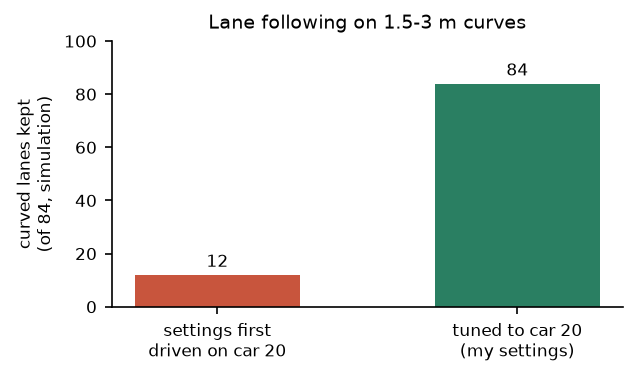
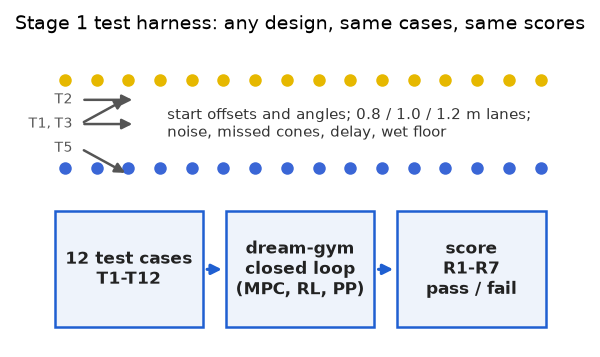
Toby's slide: card 1 is MPC lane following and the Stage 1 test harness

diff --git a/docs/logbook/toby/make_slide.py b/docs/logbook/toby/make_slide.py
@@ -16,8 +16,8 @@ DARK, BLUE, GREY = RGBColor(0x22, 0x22, 0x22), RGBColor(0x1F, 0x5F, 0xD1), RGBCo
 GREEN, AMBER = RGBColor(0x2A, 0x7F, 0x62), RGBColor(0xB2, 0x6B, 0x00)
 
 CARDS = [
-    ("1  MPC tuned to car 20", "slide_mpc.png", "84 / 84",
-     "simulated curves kept with car 20's real steering limits", ("Car runs: stays between the cones", GREEN)),
+    ("1  MPC lane following", "slide_mpc.png", "12 cases",
+     "test harness we used to choose the MPC over RL and tune it", ("Car runs: MPC stays between the cones", GREEN)),
     ("2  Lane shifting", "slide_lane_change.png", "L · C · R",
      "keep left, centre or right, moving across smoothly", ("Car 20, 20 Oct: kept to the left", GREEN)),
     ("3  Markers -> actions", "slide_aruco.png", "ID -> action",
@@ -28,10 +28,12 @@ CARDS = [
 """(title, figure, key number, one line under it, (status badge, colour)). The rest is said, not written: see
 SCRIPT."""
 SCRIPT = """About 100 seconds. Point at each card as you reach it.
-[1] I'm Toby, in the MPC sub-team. Peiyu built our MPC. I wrote the Stage 1 test cases we tuned it on, and measured the
-real car's delay and cone noise from recorded drives so the simulation behaved like the car. Then I tuned the MPC to
-car 20 with Chris's measured steering limits: 0.48 per metre to the left and 0.92 to the right. With those limits it
-kept every one of the 84 simulated curves, and the steering became about three times smoother.
+[1] I'm Toby, in the MPC sub-team. Peiyu designed our MPC; my part was making it testable. I wrote the Stage 1
+test cases and the harness that runs them: twelve cases with the car starting off-centre or at an angle, lanes 0.8 to
+1.2 metres wide, missed cones, detector noise, extra delay and a wet floor. The harness drives any design, MPC, RL or
+pure pursuit, closed loop in dream-gym and scores it against requirements R1 to R7. That is what we used to choose the
+MPC over RL and then tune it. Later I added the real car's delay, cone noise and steering limits, measured from
+recorded drives, so settings tuned in simulation carried over to the car.
 [2] Next, lane shifting. Instead of the lane centre, the MPC can follow a line beside it, so the car keeps left, centre
 or right, and it moves across gradually, at most 0.3 metres sideways per metre driven. On car 20 on 20 October,
 changing only that setting to left kept the car on the left. In the lab's narrow lanes the shift was hard to see, so I
@@ -63,7 +65,7 @@ def main():
     deck.slide_width, deck.slide_height = Inches(13.333), Inches(7.5)
     slide = deck.slides.add_slide(deck.slide_layouts[6])
     text_box(slide, 0.4, 0.2, 12.5, 0.7, [[("Toby Lee  ", 26, True, DARK),
-                                           ("MPC sub-team: car 20 tuning, lane shifting, marker actions and turns",
+                                           ("MPC sub-team: lane-following tests, lane shifting, marker actions and turns",
                                             18, False, BLUE)]])
     width, height, gap = 6.2, 2.9, 0.13
     for i, (title, figure, number, line, (status, colour)) in enumerate(CARDS):

diff --git a/docs/logbook/toby/make_figures.py b/docs/logbook/toby/make_figures.py
@@ -18,6 +18,7 @@ from pathlib import Path
 import matplotlib
 matplotlib.use("Agg")
 import matplotlib.pyplot as plt  # noqa: E402
+import numpy as np  # noqa: E402
 from matplotlib.patches import Arc, Circle, FancyBboxPatch, Rectangle  # noqa: E402
 
 HERE = Path(__file__).resolve().parent
@@ -373,14 +374,30 @@ def simulated(sim_repo: Path):
 
 def slide_figures():
     """Small figures for the one presentation slide."""
-    figure, axis = plt.subplots(figsize=(4.4, 2.3))
-    names = ["settings first\ndriven on car 20", "tuned to car 20\n(my settings)"]
-    bars = axis.bar(names, [12, 84], color=[BAD, GOOD], width=0.55)
-    label_bars(axis, bars)
-    axis.set_ylim(0, 100)
-    axis.set_ylabel("curved lanes kept\n(of 84, simulation)", fontsize=8)
-    axis.tick_params(labelsize=8)
-    axis.set_title("Lane following on 1.5-3 m curves", fontsize=9)
+    # The Stage 1 test harness (tests/policy/stage1_scenarios.py): cases in, closed-loop run, scored on R1-R7
+    figure, axis = plt.subplots(figsize=(4.4, 2.6))
+    axis.axis("off")
+    axis.set_xlim(0, 10)
+    axis.set_ylim(0, 6.2)
+    for x in np.arange(0.4, 9.8, 0.62):
+        axis.plot(x, 5.4, "o", color="#e6b800", markersize=5)
+        axis.plot(x, 3.6, "o", color="#3a66d6", markersize=5)
+    starts = [(0.0, 0.0, ""), (0.5, 0.0, "T2"), (0.0, 10.0, "T1, T3"), (-0.5, -10.0, "T5")]
+    for offset, degrees, name in starts:
+        y = 4.5 + offset
+        dx, dy = 1.1 * np.cos(np.radians(3 * degrees)), 1.1 * np.sin(np.radians(3 * degrees))
+        axis.annotate("", xy=(0.7 + dx, y + dy), xytext=(0.7, y),
+                      arrowprops=dict(arrowstyle="-|>", color="#555555", lw=1.2))
+        axis.text(0.55, y, name, fontsize=6.5, ha="right", va="center", color="#555555")
+    axis.text(2.4, 4.5, "start offsets and angles; 0.8 / 1.0 / 1.2 m lanes;\nnoise, missed cones, delay, wet floor",
+              fontsize=7, va="center", color="#333333")
+    boxes = [(0.2, "12 test cases\nT1-T12"), (3.55, "dream-gym\nclosed loop\n(MPC, RL, PP)"), (6.9, "score\nR1-R7\npass / fail")]
+    for x, label in boxes:
+        axis.add_patch(plt.Rectangle((x, 0.3), 2.9, 2.4, facecolor="#eef3fb", edgecolor=ACCENT, lw=1.2))
+        axis.text(x + 1.45, 1.5, label, ha="center", va="center", fontsize=8, weight="bold", color="#222222")
+    for x in (3.1, 6.45):
+        axis.annotate("", xy=(x + 0.45, 1.5), xytext=(x, 1.5), arrowprops=dict(arrowstyle="-|>", color=ACCENT, lw=1.5))
+    axis.set_title("Stage 1 test harness: any design, same cases, same scores", fontsize=9)
     save(figure, "slide_mpc.png")
 
     figure, axis = plt.subplots(figsize=(4.4, 2.3))
